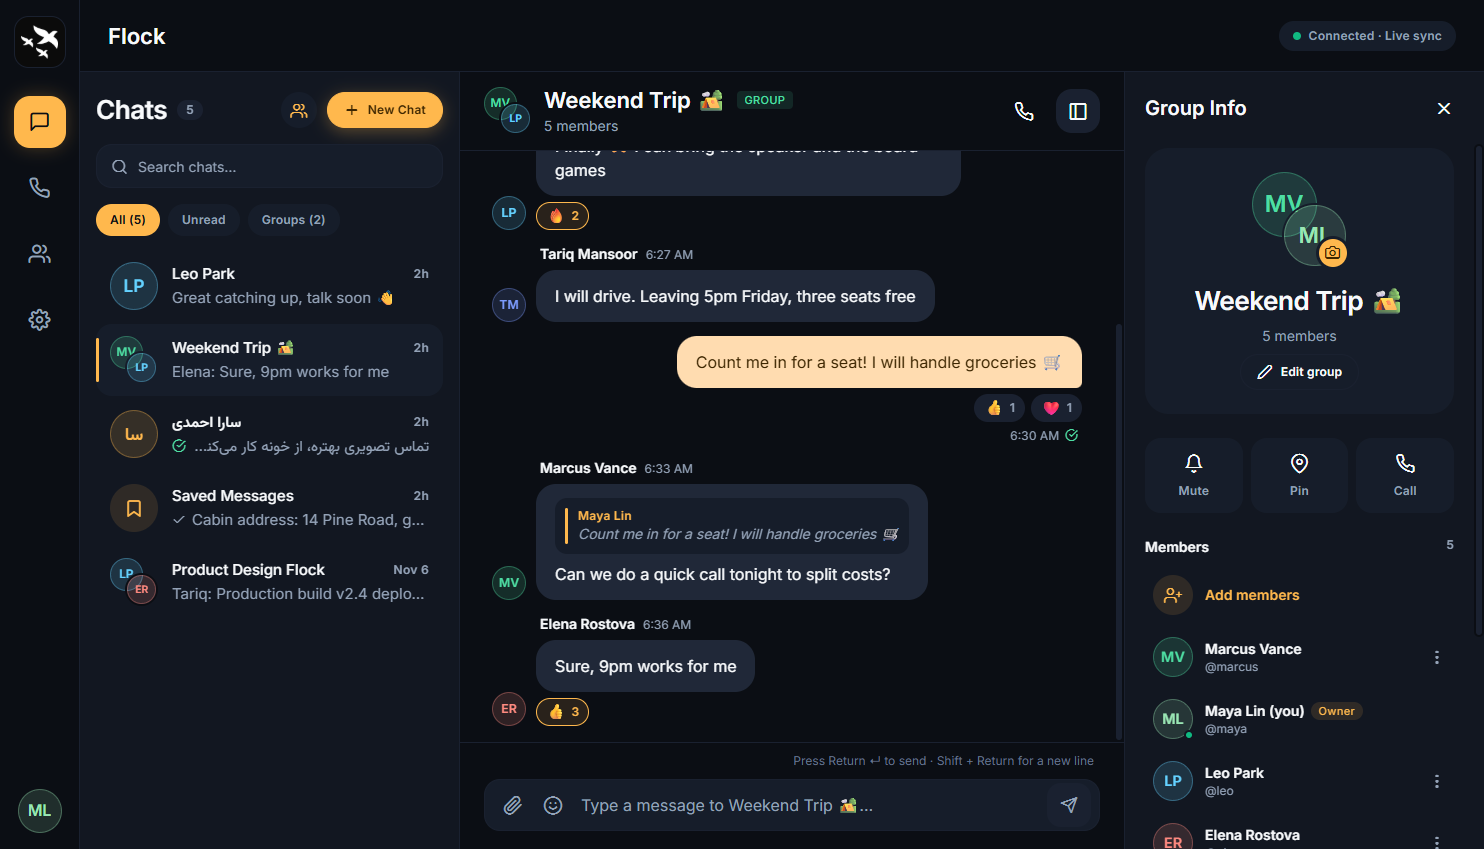
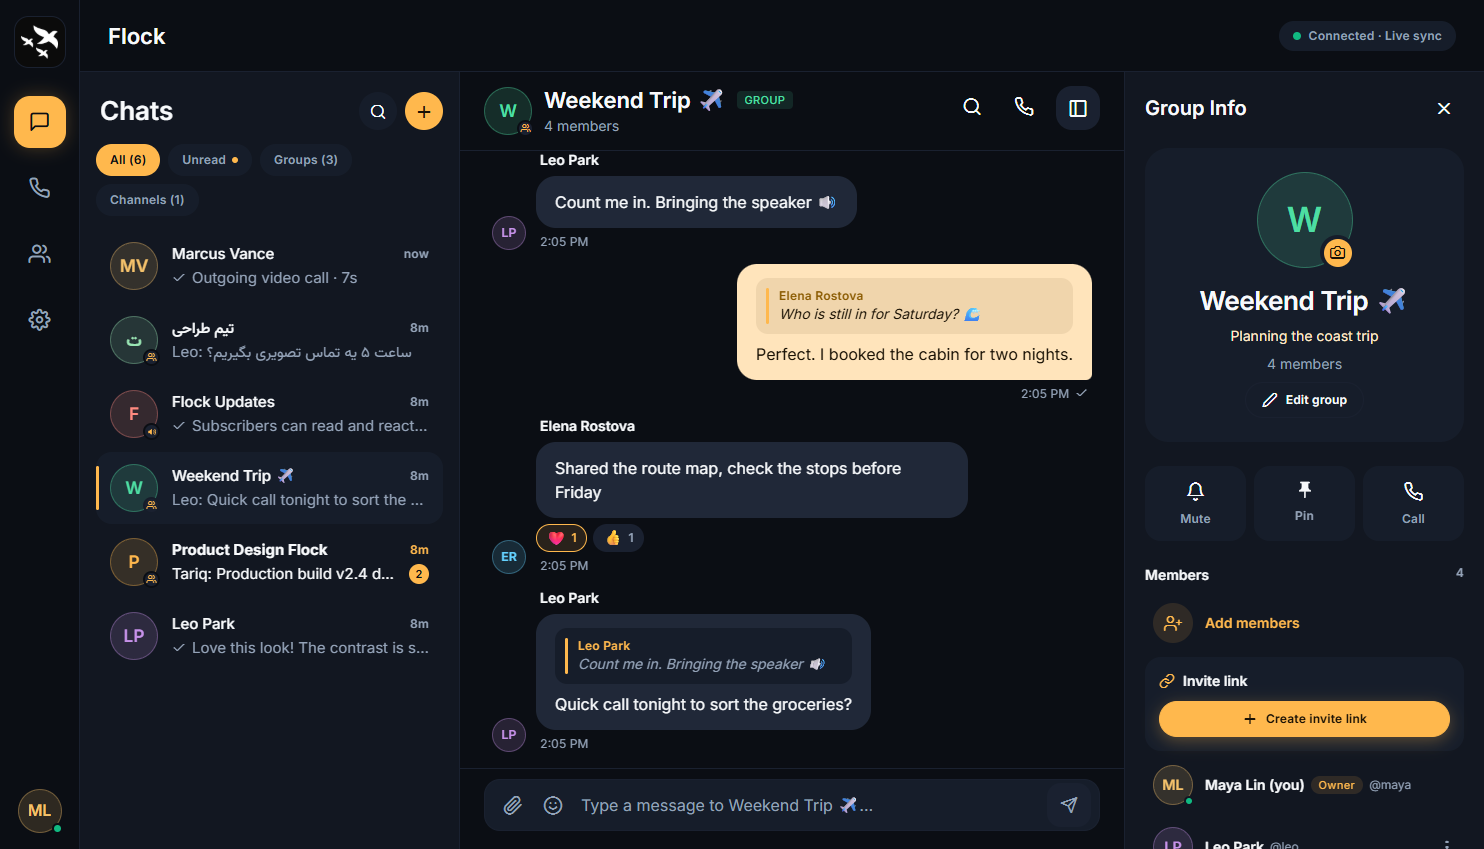
New screenshots for 1.11; docs load them from Cloudflare R2
Fresh screenshots show channels with invite links, the full-screen video
call, the accent color wheel, the Persian interface and mobile. The README
keeps repo paths; the docs site now loads the images from the flock-media
R2 bucket at flock.iranset.online instead of bundling copies.

diff --git a/docs-site/scripts/sync-readme.py b/docs-site/scripts/sync-readme.py
@@ -15,6 +15,8 @@ ROOT = Path(__file__).resolve().parents[2]
 DOCS = ROOT / 'docs-site' / 'src' / 'content' / 'docs'
 PUBLIC = ROOT / 'docs-site' / 'public'
 REPO = 'https://github.com/Pourii83/Flock'
+# Screenshots are served from the flock-media R2 bucket (Cloudflare), not from the docs site.
+MEDIA = 'https://flock.iranset.online'
 
 # Page for each ##/### section, in README order. None = dropped (the table of contents).
 SECTIONS = [
@@ -106,7 +108,7 @@ def build(lang: str):
                 return m.group(0)
             return f'{m.group(1)}({target})'
         text = re.sub(r'(\[[^\]]*\])\(#([^)]+)\)', anchor, text)
-        text = text.replace('docs/screenshots/', '/screenshots/')
+        text = text.replace('docs/screenshots/', f'{MEDIA}/')
         text = text.replace('apps/client/assets/images/icon.png', '/flock-icon.png')
         # Other relative links point at files in the repository.
         text = re.sub(r'\]\((?!https?:|/|#|mailto:)([^)]+)\)', lambda m: f']({REPO}/blob/main/{m.group(1)})', text)
@@ -151,9 +153,6 @@ def build(lang: str):
 
 
 if __name__ == '__main__':
-    (PUBLIC / 'screenshots').mkdir(parents=True, exist_ok=True)
-    for png in (ROOT / 'docs' / 'screenshots').glob('*.png'):
-        shutil.copy2(png, PUBLIC / 'screenshots' / png.name)
     shutil.copy2(ROOT / 'apps' / 'client' / 'assets' / 'images' / 'icon.png', PUBLIC / 'flock-icon.png')
     build('en')
     build('fa')

diff --git a/docs-site/src/content/docs/fa/index.md b/docs-site/src/content/docs/fa/index.md
@@ -11,27 +11,32 @@ editUrl: https://github.com/Pourii83/Flock/edit/main/README.fa.md
 از یک کدبیس **React Native (Expo)** ساخته میشود و بهصورت **وباپ (PWA)**، **اپ اندروید** و **اپ ویندوز** در دسترس است، با سرور **Node.js و PostgreSQL**.
 
 <p align="center">
-  <img src="/screenshots/chats.png" alt="چت گروهی با پاسخ و واکنش، روی دسکتاپ" width="100%" />
+  <img src="https://flock.iranset.online/chats.png" alt="چت گروهی با پاسخ، واکنش و اطلاعات گروه با لینک دعوت، روی دسکتاپ" width="100%" />
 </p>
 
 <table>
   <tr>
-    <td width="50%"><img src="/screenshots/direct-chat.png" alt="چت دونفره با سابقهی تماس" /></td>
-    <td width="50%"><img src="/screenshots/call.png" alt="تماس صوتی گروهی" /></td>
+    <td width="50%"><img src="https://flock.iranset.online/channel.png" alt="کانال با لینک دعوت" /></td>
+    <td width="50%"><img src="https://flock.iranset.online/video-call.png" alt="تماس تصویری تمامصفحه" /></td>
   </tr>
   <tr>
-    <td align="center"><sub>چت دونفره با سابقهی تماس</sub></td>
-    <td align="center"><sub>تماس صوتی گروهی</sub></td>
+    <td align="center"><sub>کانال با لینک دعوت</sub></td>
+    <td align="center"><sub>تماس تصویری تمامصفحه</sub></td>
   </tr>
   <tr>
-    <td width="50%"><img src="/screenshots/persian.png" alt="رابط فارسی، راست به چپ" /></td>
-    <td width="50%" align="center"><img src="/screenshots/mobile.png" alt="اندروید و وب موبایل" width="230" /></td>
+    <td width="50%"><img src="https://flock.iranset.online/persian.png" alt="رابط فارسی، راست به چپ" /></td>
+    <td width="50%" align="center"><img src="https://flock.iranset.online/mobile.png" alt="اندروید و وب موبایل" width="230" /></td>
   </tr>
   <tr>
     <td align="center"><sub>رابط فارسی، راست به چپ</sub></td>
     <td align="center"><sub>اندروید و وب موبایل</sub></td>
   </tr>
 </table>
+
+<p align="center">
+  <img src="https://flock.iranset.online/settings.png" alt="تنظیمات: حذف نویز، تم و چرخهی رنگ" width="100%" />
+  <br /><sub>تنظیمات: حذف نویز، تم و چرخهی رنگ</sub>
+</p>
 
 ## امکانات
 

diff --git a/docs-site/src/content/docs/index.md b/docs-site/src/content/docs/index.md
@@ -10,27 +10,32 @@ editUrl: https://github.com/Pourii83/Flock/edit/main/README.md
 Flock is a self-hosted messenger for you and your friends: chats, voice and video calls, screen sharing and meeting links, all on your own server. It runs from one **React Native (Expo)** codebase as a **web app (PWA)**, an **Android app** and a **Windows app**, with a **Node.js + PostgreSQL** server.
 
 <p align="center">
-  <img src="/screenshots/chats.png" alt="Group chat with replies and reactions, on desktop" width="100%" />
+  <img src="https://flock.iranset.online/chats.png" alt="Group chat with replies, reactions and group info with invite link, on desktop" width="100%" />
 </p>
 
 <table>
   <tr>
-    <td width="50%"><img src="/screenshots/direct-chat.png" alt="Direct chat with a call in the history" /></td>
-    <td width="50%"><img src="/screenshots/call.png" alt="Group voice call" /></td>
+    <td width="50%"><img src="https://flock.iranset.online/channel.png" alt="A channel with its invite link" /></td>
+    <td width="50%"><img src="https://flock.iranset.online/video-call.png" alt="Full-screen video call" /></td>
   </tr>
   <tr>
-    <td align="center"><sub>Direct chat with a call in the history</sub></td>
-    <td align="center"><sub>Group voice call</sub></td>
+    <td align="center"><sub>A channel with its invite link</sub></td>
+    <td align="center"><sub>Full-screen video call</sub></td>
   </tr>
   <tr>
-    <td width="50%"><img src="/screenshots/persian.png" alt="Persian interface, right to left" /></td>
-    <td width="50%" align="center"><img src="/screenshots/mobile.png" alt="Android and mobile web" width="230" /></td>
+    <td width="50%"><img src="https://flock.iranset.online/persian.png" alt="Persian interface, right to left" /></td>
+    <td width="50%" align="center"><img src="https://flock.iranset.online/mobile.png" alt="Android and mobile web" width="230" /></td>
   </tr>
   <tr>
     <td align="center"><sub>Persian interface, right to left</sub></td>
     <td align="center"><sub>Android and mobile web</sub></td>
   </tr>
 </table>
+
+<p align="center">
+  <img src="https://flock.iranset.online/settings.png" alt="Settings: noise cancellation, theme and the accent color wheel" width="100%" />
+  <br /><sub>Settings: noise cancellation, theme and the accent color wheel</sub>
+</p>
 
 ## Features
 

diff --git a/README.fa.md b/README.fa.md
@@ -12,17 +12,17 @@
 از یک کدبیس **React Native (Expo)** ساخته میشود و بهصورت **وباپ (PWA)**، **اپ اندروید** و **اپ ویندوز** در دسترس است، با سرور **Node.js و PostgreSQL**.
 
 <p align="center">
-  <img src="docs/screenshots/chats.png" alt="چت گروهی با پاسخ و واکنش، روی دسکتاپ" width="100%" />
+  <img src="docs/screenshots/chats.png" alt="چت گروهی با پاسخ، واکنش و اطلاعات گروه با لینک دعوت، روی دسکتاپ" width="100%" />
 </p>
 
 <table>
   <tr>
-    <td width="50%"><img src="docs/screenshots/direct-chat.png" alt="چت دونفره با سابقهی تماس" /></td>
-    <td width="50%"><img src="docs/screenshots/call.png" alt="تماس صوتی گروهی" /></td>
+    <td width="50%"><img src="docs/screenshots/channel.png" alt="کانال با لینک دعوت" /></td>
+    <td width="50%"><img src="docs/screenshots/video-call.png" alt="تماس تصویری تمامصفحه" /></td>
   </tr>
   <tr>
-    <td align="center"><sub>چت دونفره با سابقهی تماس</sub></td>
-    <td align="center"><sub>تماس صوتی گروهی</sub></td>
+    <td align="center"><sub>کانال با لینک دعوت</sub></td>
+    <td align="center"><sub>تماس تصویری تمامصفحه</sub></td>
   </tr>
   <tr>
     <td width="50%"><img src="docs/screenshots/persian.png" alt="رابط فارسی، راست به چپ" /></td>
@@ -33,6 +33,11 @@
     <td align="center"><sub>اندروید و وب موبایل</sub></td>
   </tr>
 </table>
+
+<p align="center">
+  <img src="docs/screenshots/settings.png" alt="تنظیمات: حذف نویز، تم و چرخهی رنگ" width="100%" />
+  <br /><sub>تنظیمات: حذف نویز، تم و چرخهی رنگ</sub>
+</p>
 
 ## فهرست
 

diff --git a/README.md b/README.md
@@ -11,17 +11,17 @@
 Flock is a self-hosted messenger for you and your friends: chats, voice and video calls, screen sharing and meeting links, all on your own server. It runs from one **React Native (Expo)** codebase as a **web app (PWA)**, an **Android app** and a **Windows app**, with a **Node.js + PostgreSQL** server.
 
 <p align="center">
-  <img src="docs/screenshots/chats.png" alt="Group chat with replies and reactions, on desktop" width="100%" />
+  <img src="docs/screenshots/chats.png" alt="Group chat with replies, reactions and group info with invite link, on desktop" width="100%" />
 </p>
 
 <table>
   <tr>
-    <td width="50%"><img src="docs/screenshots/direct-chat.png" alt="Direct chat with a call in the history" /></td>
-    <td width="50%"><img src="docs/screenshots/call.png" alt="Group voice call" /></td>
+    <td width="50%"><img src="docs/screenshots/channel.png" alt="A channel with its invite link" /></td>
+    <td width="50%"><img src="docs/screenshots/video-call.png" alt="Full-screen video call" /></td>
   </tr>
   <tr>
-    <td align="center"><sub>Direct chat with a call in the history</sub></td>
-    <td align="center"><sub>Group voice call</sub></td>
+    <td align="center"><sub>A channel with its invite link</sub></td>
+    <td align="center"><sub>Full-screen video call</sub></td>
   </tr>
   <tr>
     <td width="50%"><img src="docs/screenshots/persian.png" alt="Persian interface, right to left" /></td>
@@ -32,6 +32,11 @@ Flock is a self-hosted messenger for you and your friends: chats, voice and vide
     <td align="center"><sub>Android and mobile web</sub></td>
   </tr>
 </table>
+
+<p align="center">
+  <img src="docs/screenshots/settings.png" alt="Settings: noise cancellation, theme and the accent color wheel" width="100%" />
+  <br /><sub>Settings: noise cancellation, theme and the accent color wheel</sub>
+</p>
 
 ## Contents
 
